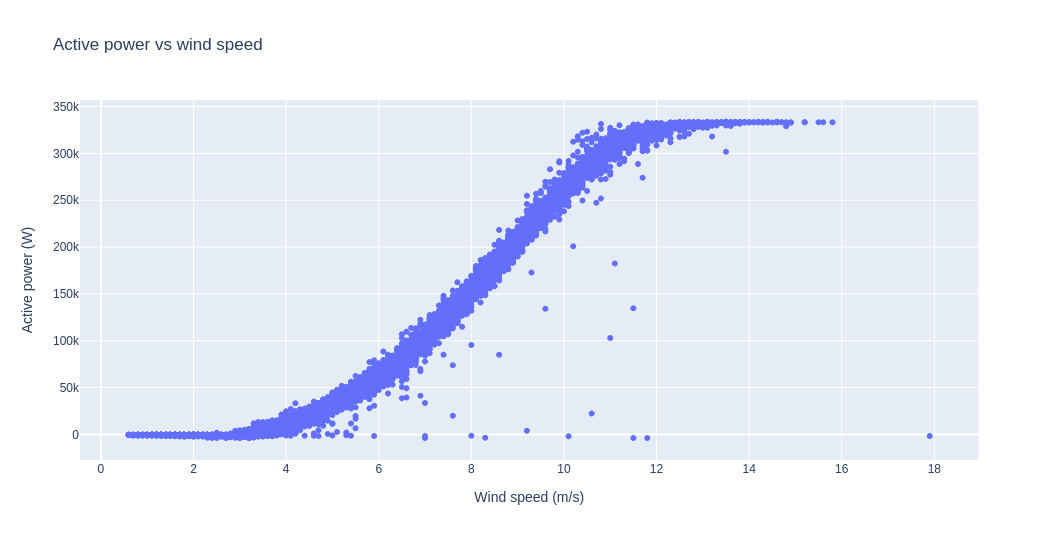
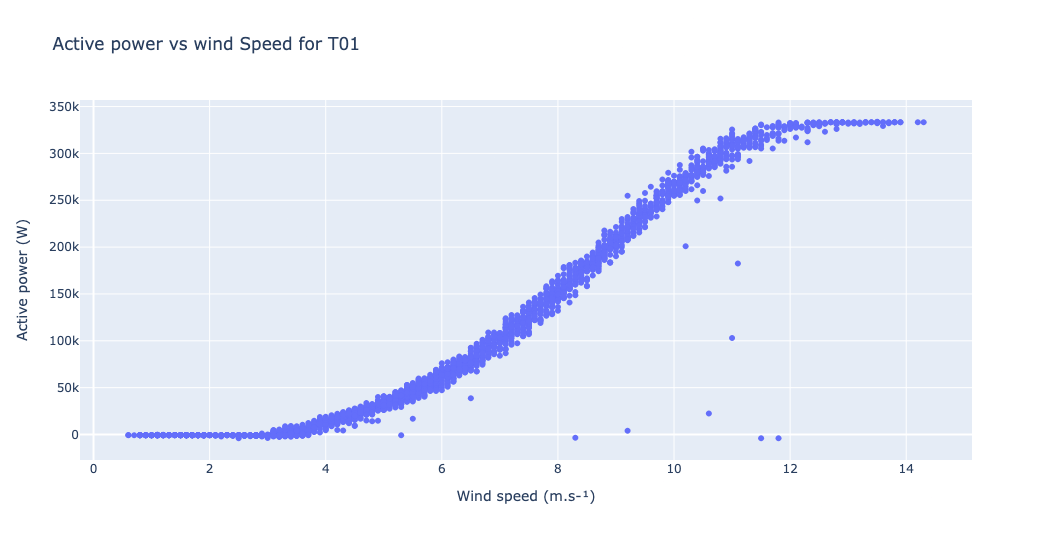
my mac really dislike 2 month of data for the scatter. reduce to 2 weeks.

diff --git a/main.py b/main.py
@@ -106,7 +106,7 @@ def _(mo):
 
         A power curve is a graphical representation of a wind turbine's power output as a function of wind speed. Visualizing the power curve allows for quick assessment of turbine performance and identification of potential anomalies.
 
-        Your objective is to generate a scatter plot of active power versus wind speed for the  wind turbine T01 over the period \[2016-12-01; 2017-02-01\[.
+        Your objective is to generate a scatter plot of active power versus wind speed for the  wind turbine T01 over the period \[2016-12-21; 2017-01-08\[.
 
         Output exemple:
         """
